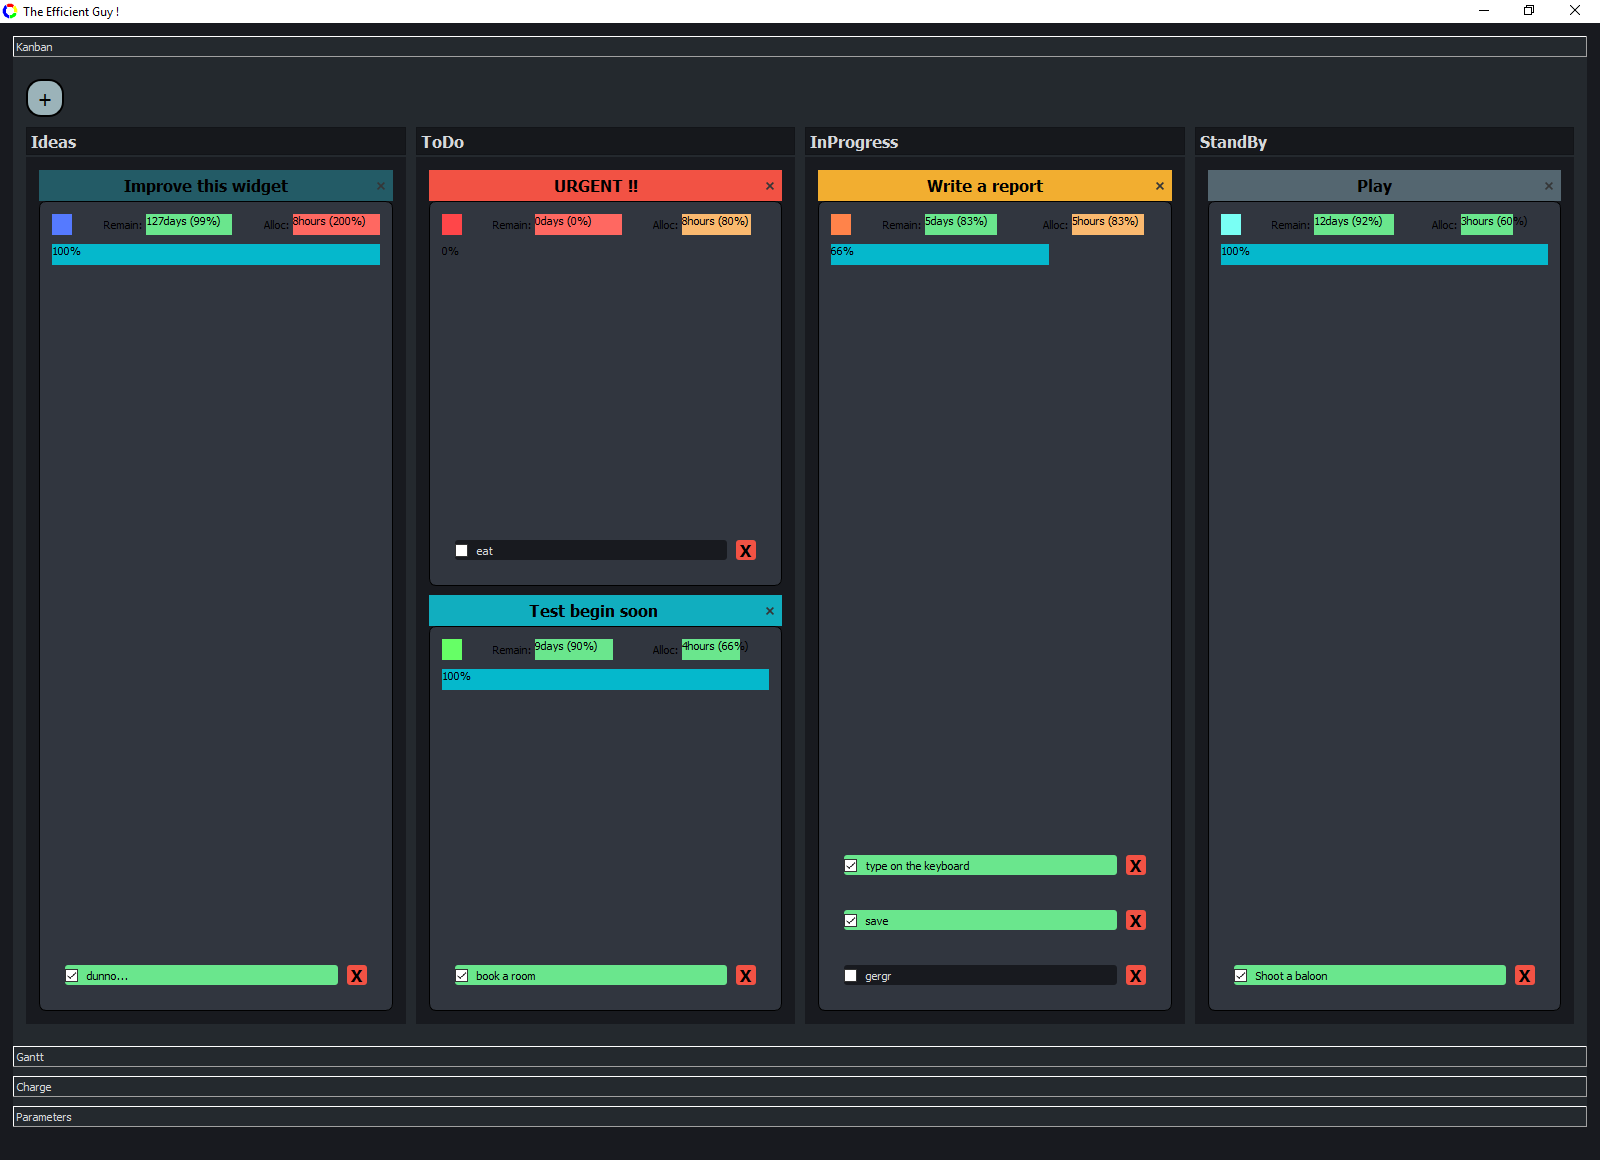
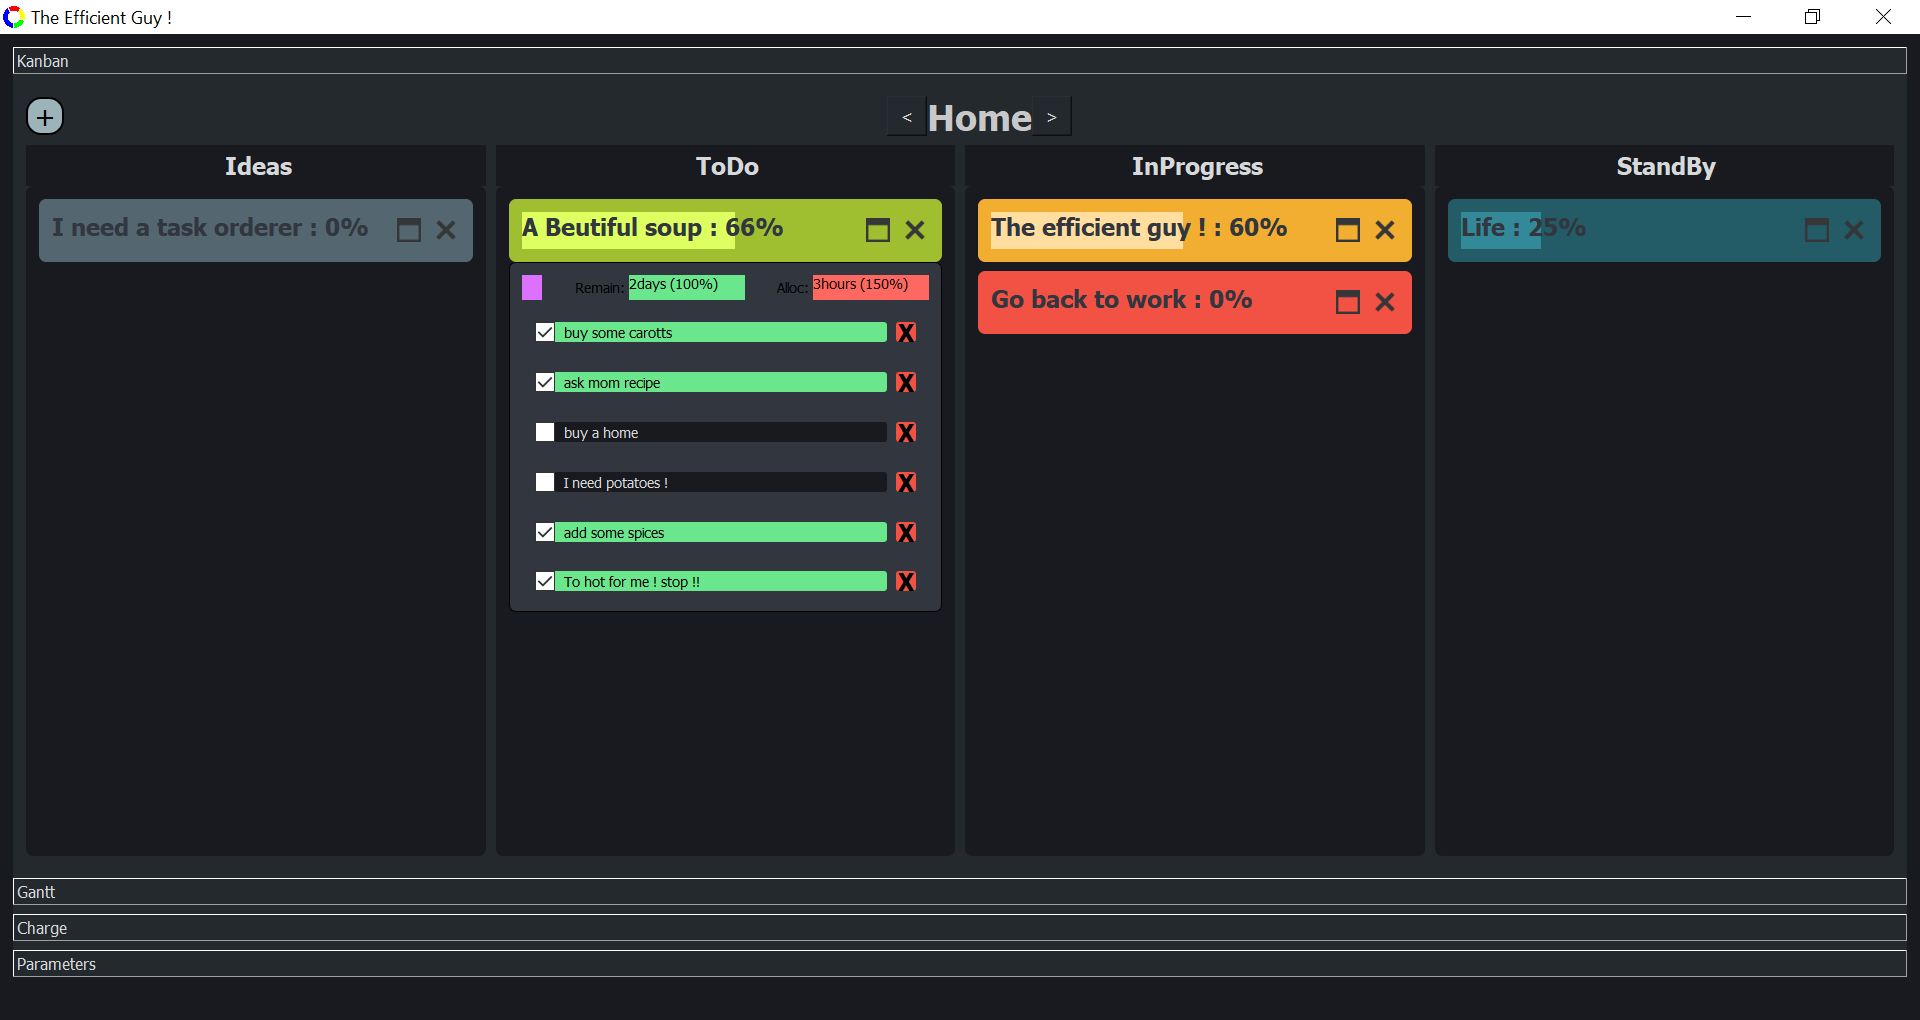
Efficiency display improvments

diff --git a/task.cpp b/task.cpp
@@ -27,22 +27,14 @@ task::task()
     time->setStyleSheet("border : none");
     projTim->setStyleSheet("QProgressBar{border: none;} QProgressBar::chunk{background-color: #6AE68D;font-weight : 300; font-size : 14px;}");
     alloc->setStyleSheet("QProgressBar{border: none;} QProgressBar::chunk{background-color: #6AE68D;font-weight : 300; font-size : 14px;}");
-    completion->setStyleSheet("QProgressBar{border: none;} QProgressBar::chunk{background-color: #05B8CC;font-weight : 300; font-size : 14px;}");
     lab->setStyleSheet("QWidget{color: black;background-color :rgb( 49, 54, 63);"
                        "font-weight :300; font-size : 14px;border-radius : 7px;border : 1px solid black;} QCheckBox{border:none;}");
-    this->windowTitle->setText(title);
     this->setFeatures(this->features() & ~QDockWidget::DockWidgetFloatable);
     this->setAttribute(Qt::WA_DeleteOnClose);
-    completion->setOrientation(Qt::Horizontal);
-    completion->setValue(0);
-    completion->setRange(0, 0);
     this->layout->addItem(this->stateBar);
-    this->layout->addWidget(completion);
-    //this->layout->addStretch(1);
-
+    this->layout->setAlignment(Qt::AlignTop);
     lab->setLayout(layout);
     this->setWidget(lab);
-    this->hh = this->lab->height();
     this->lab->setMaximumHeight(0);
 
 }
@@ -63,15 +55,12 @@ task::task(database *db, QWidget *parent) :
     this->alloc->setStyleSheet("QProgressBar{border: none;} QProgressBar::chunk{background-color: #6AE68D;font-weight : 300; font-size : 14px;}");
     this->db = db;
     db->addTask(this->wdwId, this->priority, this->duration, this->group, this->itemCount, this->deadLine, this->title, this->colorTask.name());
-    completion->setStyleSheet("QProgressBar{border: none;} QProgressBar::chunk{background-color: #05B8CC;font-weight : 300; font-size : 14px;}");
     lab->setStyleSheet("QWidget{color: black; background-color :rgb( 49, 54, 63);"
                        "font-weight : 300; font-size : 14px;border-radius : 7px;border : 1px solid black;}");
-    this->windowTitle->setText(title);
     this->setFeatures(this->features() & ~QDockWidget::DockWidgetFloatable);
     this->setAttribute(Qt::WA_DeleteOnClose);
-    completion->setOrientation(Qt::Horizontal);
-    completion->setRange(0, 0);
-    completion->setValue(0);
+
+    this->completion->setFormat(this->title + " : %p%");
     projTim->setRange(0, 0);
     alloc->setRange(0, 0);
     this->labelColor->setStyleSheet("border-radius : none; border : none; background-color:"+this->colorTask.name());
@@ -86,12 +75,9 @@ task::task(database *db, QWidget *parent) :
     this->stateBar->addWidget(this->aloc);
     this->stateBar->addWidget(alloc);
     this->layout->addItem(this->stateBar);
-    this->layout->addWidget(completion);
-    //this->layout->addStretch(1);
-
+    this->layout->setAlignment(Qt::AlignTop);
     lab->setLayout(layout);
     this->setWidget(lab);
-    this->hh = this->lab->height();
     this->lab->setMaximumHeight(0);
     color();
 }
@@ -175,7 +161,7 @@ void task::mouseReleaseEvent(QMouseEvent *event)
         {
             this->setWindowTitle(title->text());
             this->title = title->text();
-            this->windowTitle->setText(this->title);
+            this->completion->setFormat(this->title + " : %p%");
         }
         if(!task->text().isEmpty())
         {
@@ -279,6 +265,9 @@ void task::color()
     }
     this->setStyleSheet(this->titleBarWidget()->styleSheet().append("QWidget {  background-color: "+s+";"
                             " color : rgb( 49, 54, 63);font-weight : 600;font-size : 12pt;}"));
+    QColor c = QColor(s);
+    c = c.lighter();
+    this->completion->setStyleSheet("QProgressBar{border: none;} QProgressBar::chunk{background-color: "+c.name()+";}");
 }
 
 void task::mousePressEvent(QMouseEvent *event)
@@ -322,9 +311,9 @@ void task::set(QDateTime number, database *db, int priority, int duration,
     this->itemCount = itemCount;
     this->deadLine = deadline;
     this->title = title;
-    this->windowTitle->setText(title);
-    this->db = db;
 
+    this->db = db;
+    this->completion->setFormat(this->title + " : %p%");
     projTim->setMaximum(this->wdwId.daysTo(deadLine));
     alloc->setMaximum(this->duration);
     if(projTim->maximum()<=0)
@@ -370,7 +359,7 @@ void task::hideShowWid()
     if(this->lab->height() != 0)
         this->lab->setMaximumHeight(0);
     else
-        this->lab->setMaximumHeight(hh);
+        this->lab->setMaximumHeight(50*(itemCount+1));
 }
 
 void task::dlTask()
@@ -385,20 +374,21 @@ void task::designTitleBar()
     QPushButton *quit = new QPushButton;
     connect(hideShow, SIGNAL(clicked()), this, SLOT(hideShowWid()));
     connect(quit, SIGNAL(clicked()), this, SLOT(dlTask()));
-    this->setStyleSheet("QLabel{font-weight : 600;color: black;"
-                        "background-color : rgb( 49, 54, 63); border-radius : 7px;"
-                        "border : 1px solid black;font-size : 12pt;}");
-    this->windowTitle->setText(this->title);
 
     QIcon icon = titleBar->style()->standardIcon(QStyle::SP_TitleBarMaxButton, 0, titleBar);
     QIcon icon2 = titleBar->style()->standardIcon(QStyle::SP_TitleBarCloseButton, 0, titleBar);
-
+    hideShow->setStyleSheet("QPushButton::hover{background-color : rgba(255, 255, 255, 200);border-radius : none;}");
+    quit->setStyleSheet("QPushButton::hover{background-color : rgba(255, 50, 50, 200);border-radius : none;}");
     hideShow->setIcon( icon );
     quit->setIcon( icon2 );
     hideShow->adjustSize();
     quit->adjustSize();
-
-    layout->addWidget(windowTitle);
+    completion->setOrientation(Qt::Horizontal);
+    completion->setValue(0);
+    completion->setRange(0, 1);
+    this->completion->setFormat(this->title + " : %p%");
+    this->completion->setMinimumWidth(this->titleBar->width()/2);
+    layout->addWidget(completion);
     layout->addStretch(1);
     layout->addWidget(hideShow);
     layout->addWidget(quit);

diff --git a/tray.cpp b/tray.cpp
@@ -9,8 +9,8 @@ tray::tray(QString title, int id, database *db)
     this->setFeatures(this->features() & ~QDockWidget::DockWidgetFloatable);
     this->setFeatures(this->features() & ~QDockWidget::DockWidgetClosable);
     this->setWindowTitle(this->title);
-    setStyleSheet( "QDockWidget{text-align: center; color: rgb(214, 216, 218); background-color : rgba( 24, 26, 31, 255); "
-                   "border-radius : 7px;  font-weight : 600;font-size : 12pt;} QWidget{background-color : rgba( 24, 26, 31, 255);}" );
+    setStyleSheet( "QDockWidget::title{text-align: center; color: rgb(214, 216, 218); background-color : rgba( 24, 26, 31, 255); "
+                   "} QWidget{background-color : rgba( 24, 26, 31, 255);border-radius : 7px;  font-weight : 600;font-size : 12pt;}" );
     this->content->setLayout(this->layout);
     this->setWidget(this->content);
     this->setAcceptDrops(true);

diff --git a/mainwindow.cpp b/mainwindow.cpp
@@ -223,7 +223,10 @@ void MainWindow::load(tray *t)
         QString str3 ="SELECT number, title, state FROM target WHERE parentTask="+modelTask->record(i).value("number").toString();
         QSqlQueryModel *modelTarget = new QSqlQueryModel;
         modelTarget->setQuery(str3, db->db);
-        aTask->completion->setMaximum(aTask->itemCount);
+        if(aTask->itemCount)
+            aTask->completion->setMaximum(aTask->itemCount);
+        else
+            aTask->completion->setMaximum(1);
         for(int k = 0; k<modelTargetCount->record(0).value("cnt1").toInt(); k++)//through target
         {
             target *targ = new target;

diff --git a/task.h b/task.h
@@ -66,13 +66,11 @@ public slots:
 private:
 
     database *db;
-    int hh;
     QProgressBar *projTim = new QProgressBar;
     QProgressBar *alloc = new QProgressBar;
     QLabel *aloc = new QLabel;
     QLabel *time = new QLabel;
     QWidget *titleBar = new QWidget;
-    QLabel *windowTitle = new QLabel;
     QWidget *lab = new QWidget;
     QString description = "Empty";
 
